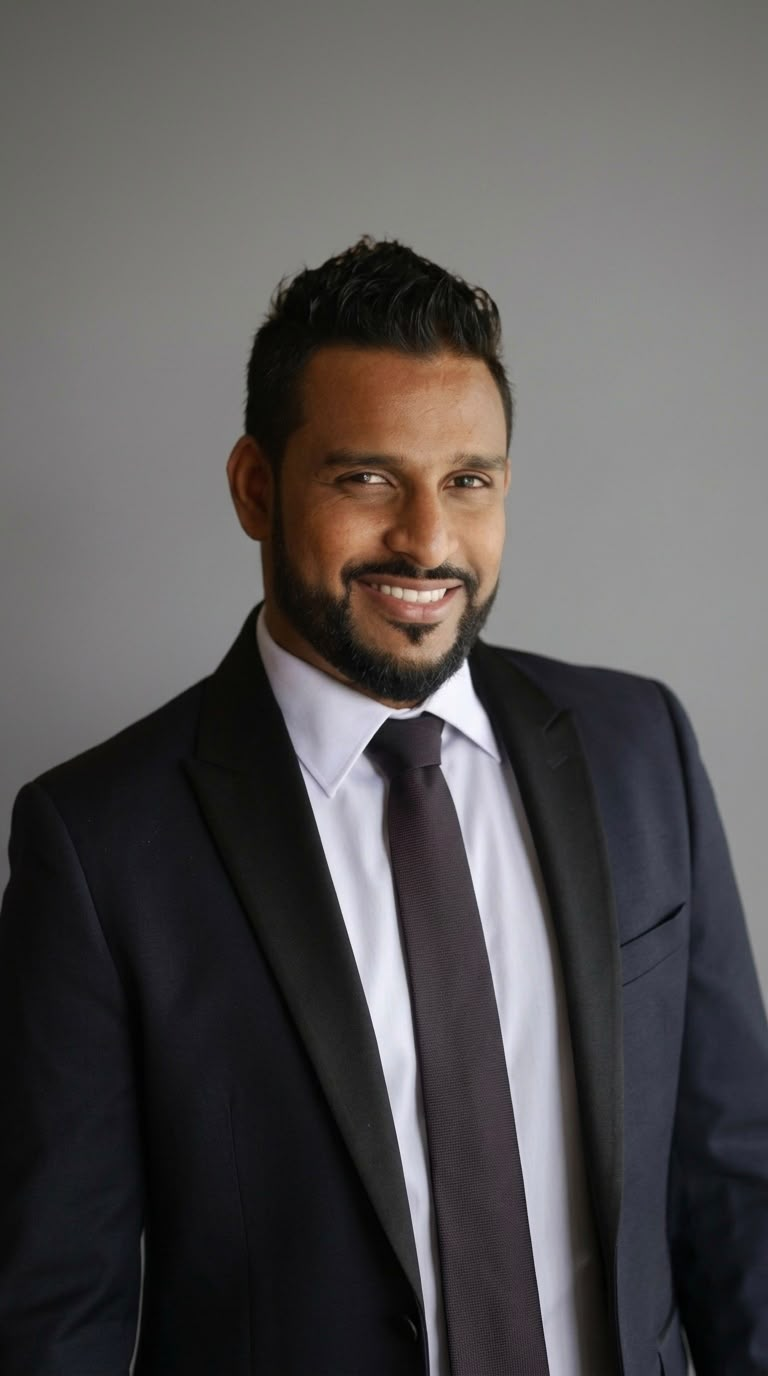
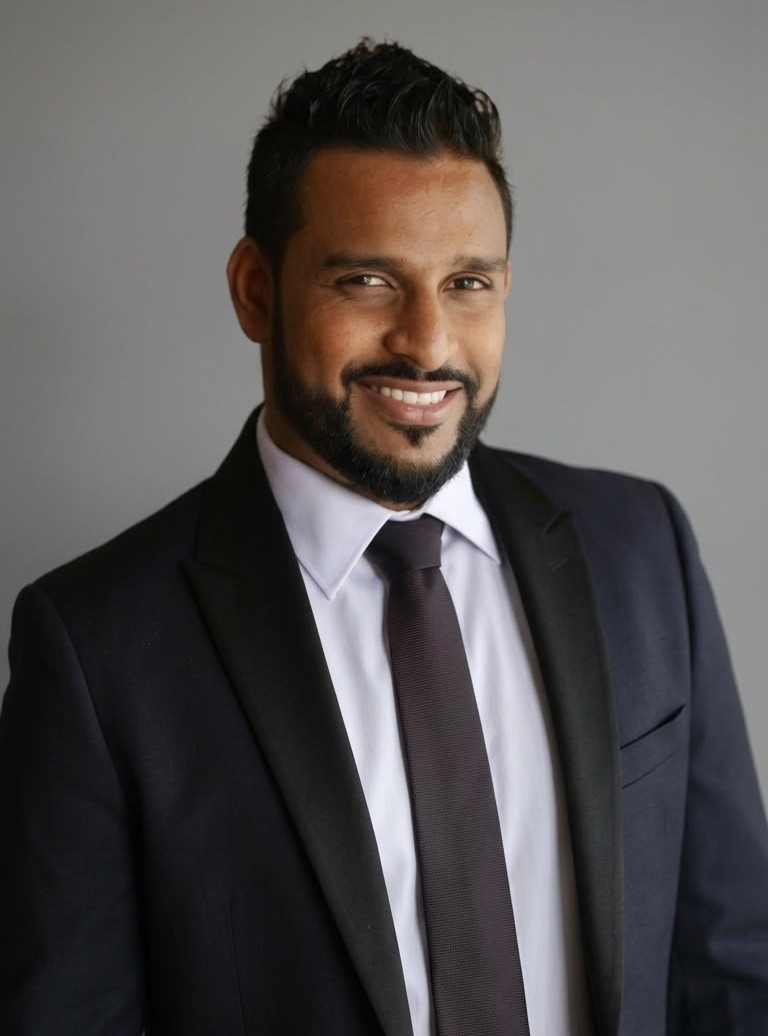
Implement code changes to enhance functionality and improve performance

diff --git a/app/dna/page.tsx b/app/dna/page.tsx
@@ -43,7 +43,7 @@ export default function DnaPage() {
         <RevealGroup
           as="ul"
           stagger={0.07}
-          className="mt-10 grid gap-6 sm:mt-14 sm:grid-cols-2 lg:grid-cols-3"
+          className="mx-auto mt-10 grid max-w-4xl gap-5 sm:mt-14 sm:grid-cols-2 lg:grid-cols-2"
         >
           {leadership.map((person) => (
             <RevealItem key={person.name} as="li" className="h-full">
@@ -52,7 +52,7 @@ export default function DnaPage() {
                 className="flex h-full flex-col overflow-hidden transition-shadow duration-500 hover:shadow-[0_36px_90px_-46px_rgb(255_176_32/0.42)]"
               >
                 {person.image ? (
-                  <div className="relative aspect-4/5 overflow-hidden border-b border-white/[0.08] bg-kooka-carbon">
+                  <div className="relative aspect-4/3 overflow-hidden border-b border-white/[0.08] bg-kooka-carbon">
                     <Image
                       src={person.image}
                       alt={`${person.name}, ${person.role}`}
@@ -63,14 +63,14 @@ export default function DnaPage() {
                     />
                   </div>
                 ) : null}
-                <div className="flex flex-1 flex-col p-6 sm:p-7">
-                  <h3 className="font-display text-xl leading-tight font-bold tracking-[0.06em] break-words uppercase [hyphens:auto] sm:text-2xl">
+                <div className="flex flex-1 flex-col p-5 sm:p-6">
+                  <h3 className="font-display text-lg leading-tight font-bold tracking-[0.06em] break-words uppercase [hyphens:auto] sm:text-xl">
                     {person.name}
                   </h3>
-                  <p className="mt-3 font-display text-sm text-kooka-ember sm:text-base">
+                  <p className="mt-2 font-display text-sm text-kooka-ember">
                     {person.role}
                   </p>
-                  <p className="mt-5 text-sm leading-relaxed text-justify text-kooka-mist [hyphens:auto]">
+                  <p className="mt-4 text-sm leading-relaxed text-justify text-kooka-mist [hyphens:auto]">
                     {person.bio}
                   </p>
                 </div>

diff --git a/data/team.ts b/data/team.ts
@@ -16,6 +16,6 @@ export const leadership: TeamMember[] = [
     name: "Ryan Senn",
     role: "Director of Operations & Partnerships",
     bio: "Ryan Senn oversees the operational execution of all projects, ensuring every event is delivered efficiently, professionally, and to the highest standard. Acting as the connection between clients, partners, and production teams, he manages workflows, logistics, client communications, and strategic partnerships. Ryan is focused on creating seamless event experiences while building long-term relationships with venues, suppliers, sponsors, and clients.",
-    image: "/team/ryan-senn.png",
+    image: "/team/rayan-senn.jpeg",
   },
 ];
